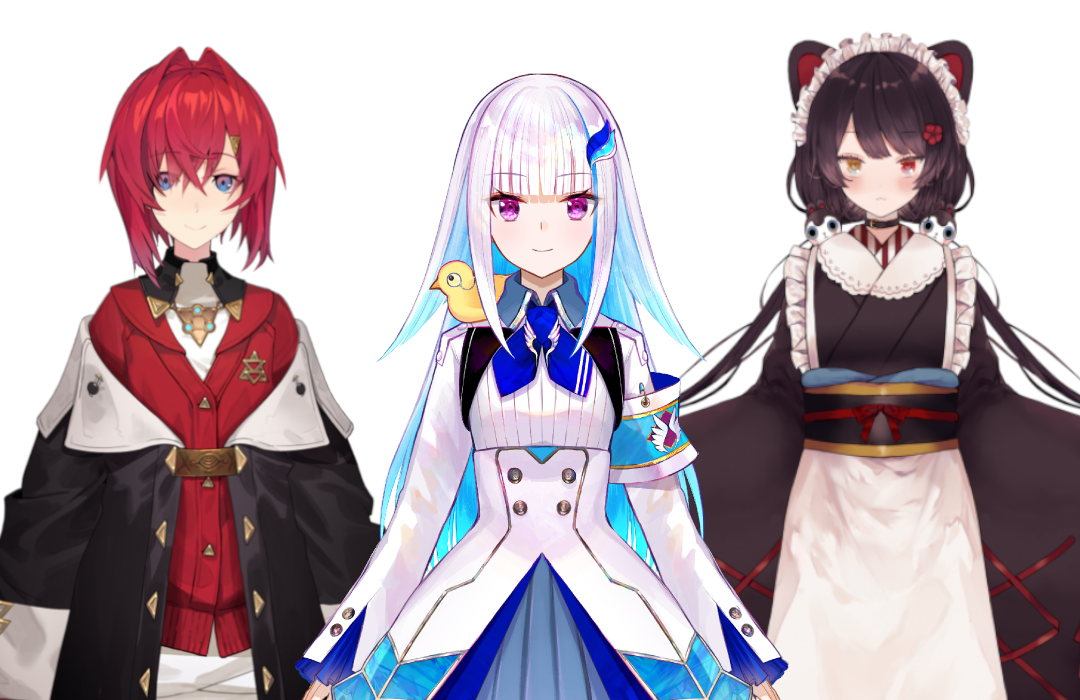
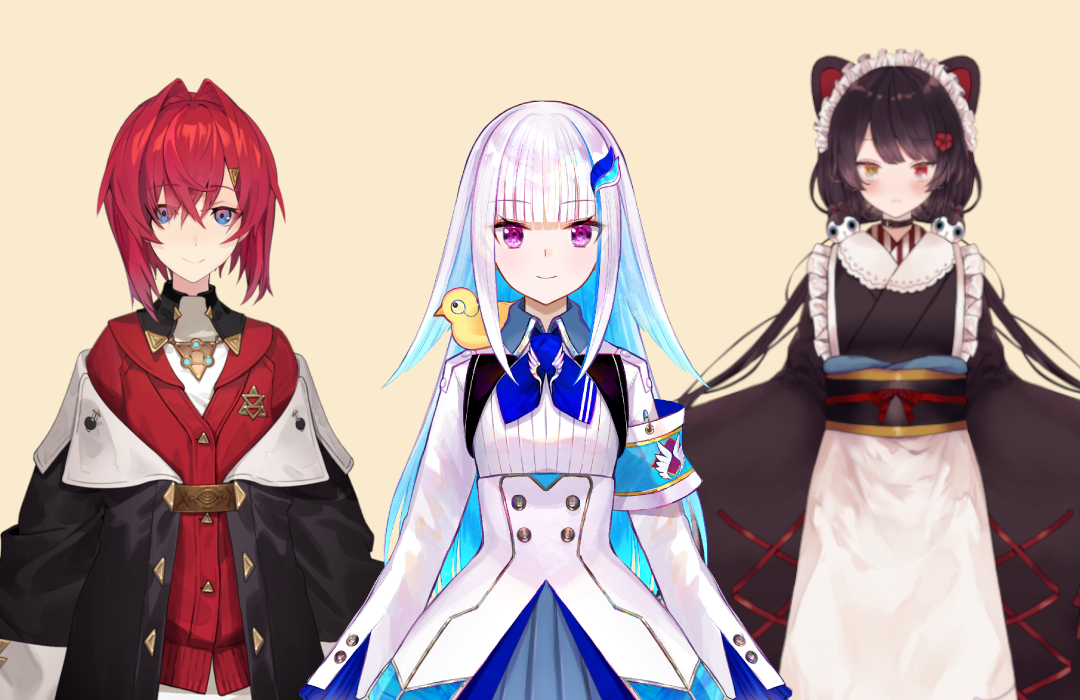
背景色を追加

diff --git a/src/components/window/member/member_window.js b/src/components/window/member/member_window.js
@@ -10,10 +10,10 @@ const MemberWindow = (props) => {
             if( props.isRight ) {
               return (
                 <div className={`${styles.main} ${styles.flex}`} >
-                  <div className={`${styles.right_padding} ${styles.frame}`}>
+                  <div className={styles.frame}>
                     <img className={styles.img} src={`${window.location.origin}/image/sanbaka.png`} />
                   </div>
-                  <div>
+                  <div className={styles.left_padding}>
                     <h2 className={`${styles.title} ${styles.right}`}>メンバー紹介</h2>
                     <p className={`${styles.content} ${styles.right}`}>いい感じの紹介文が欲しいわね...</p>
                   </div>

diff --git a/src/components/window/window_layout.module.scss b/src/components/window/window_layout.module.scss
@@ -31,7 +31,7 @@
 	content: "";
 	top: 0;
 	left: 0;
-	width: 88%;
+	width: 100%;
 	height: 100%;
 	box-shadow: 0 4px 10px rgba(0, 0, 0, 0.3);
 	transform: rotate(3deg); /* 回転させる */
@@ -63,6 +63,10 @@
 
 .right_padding {
   padding-right: 8%;
+}
+
+.left_padding {
+  padding-left: 8%;
 }
 
 .right {
